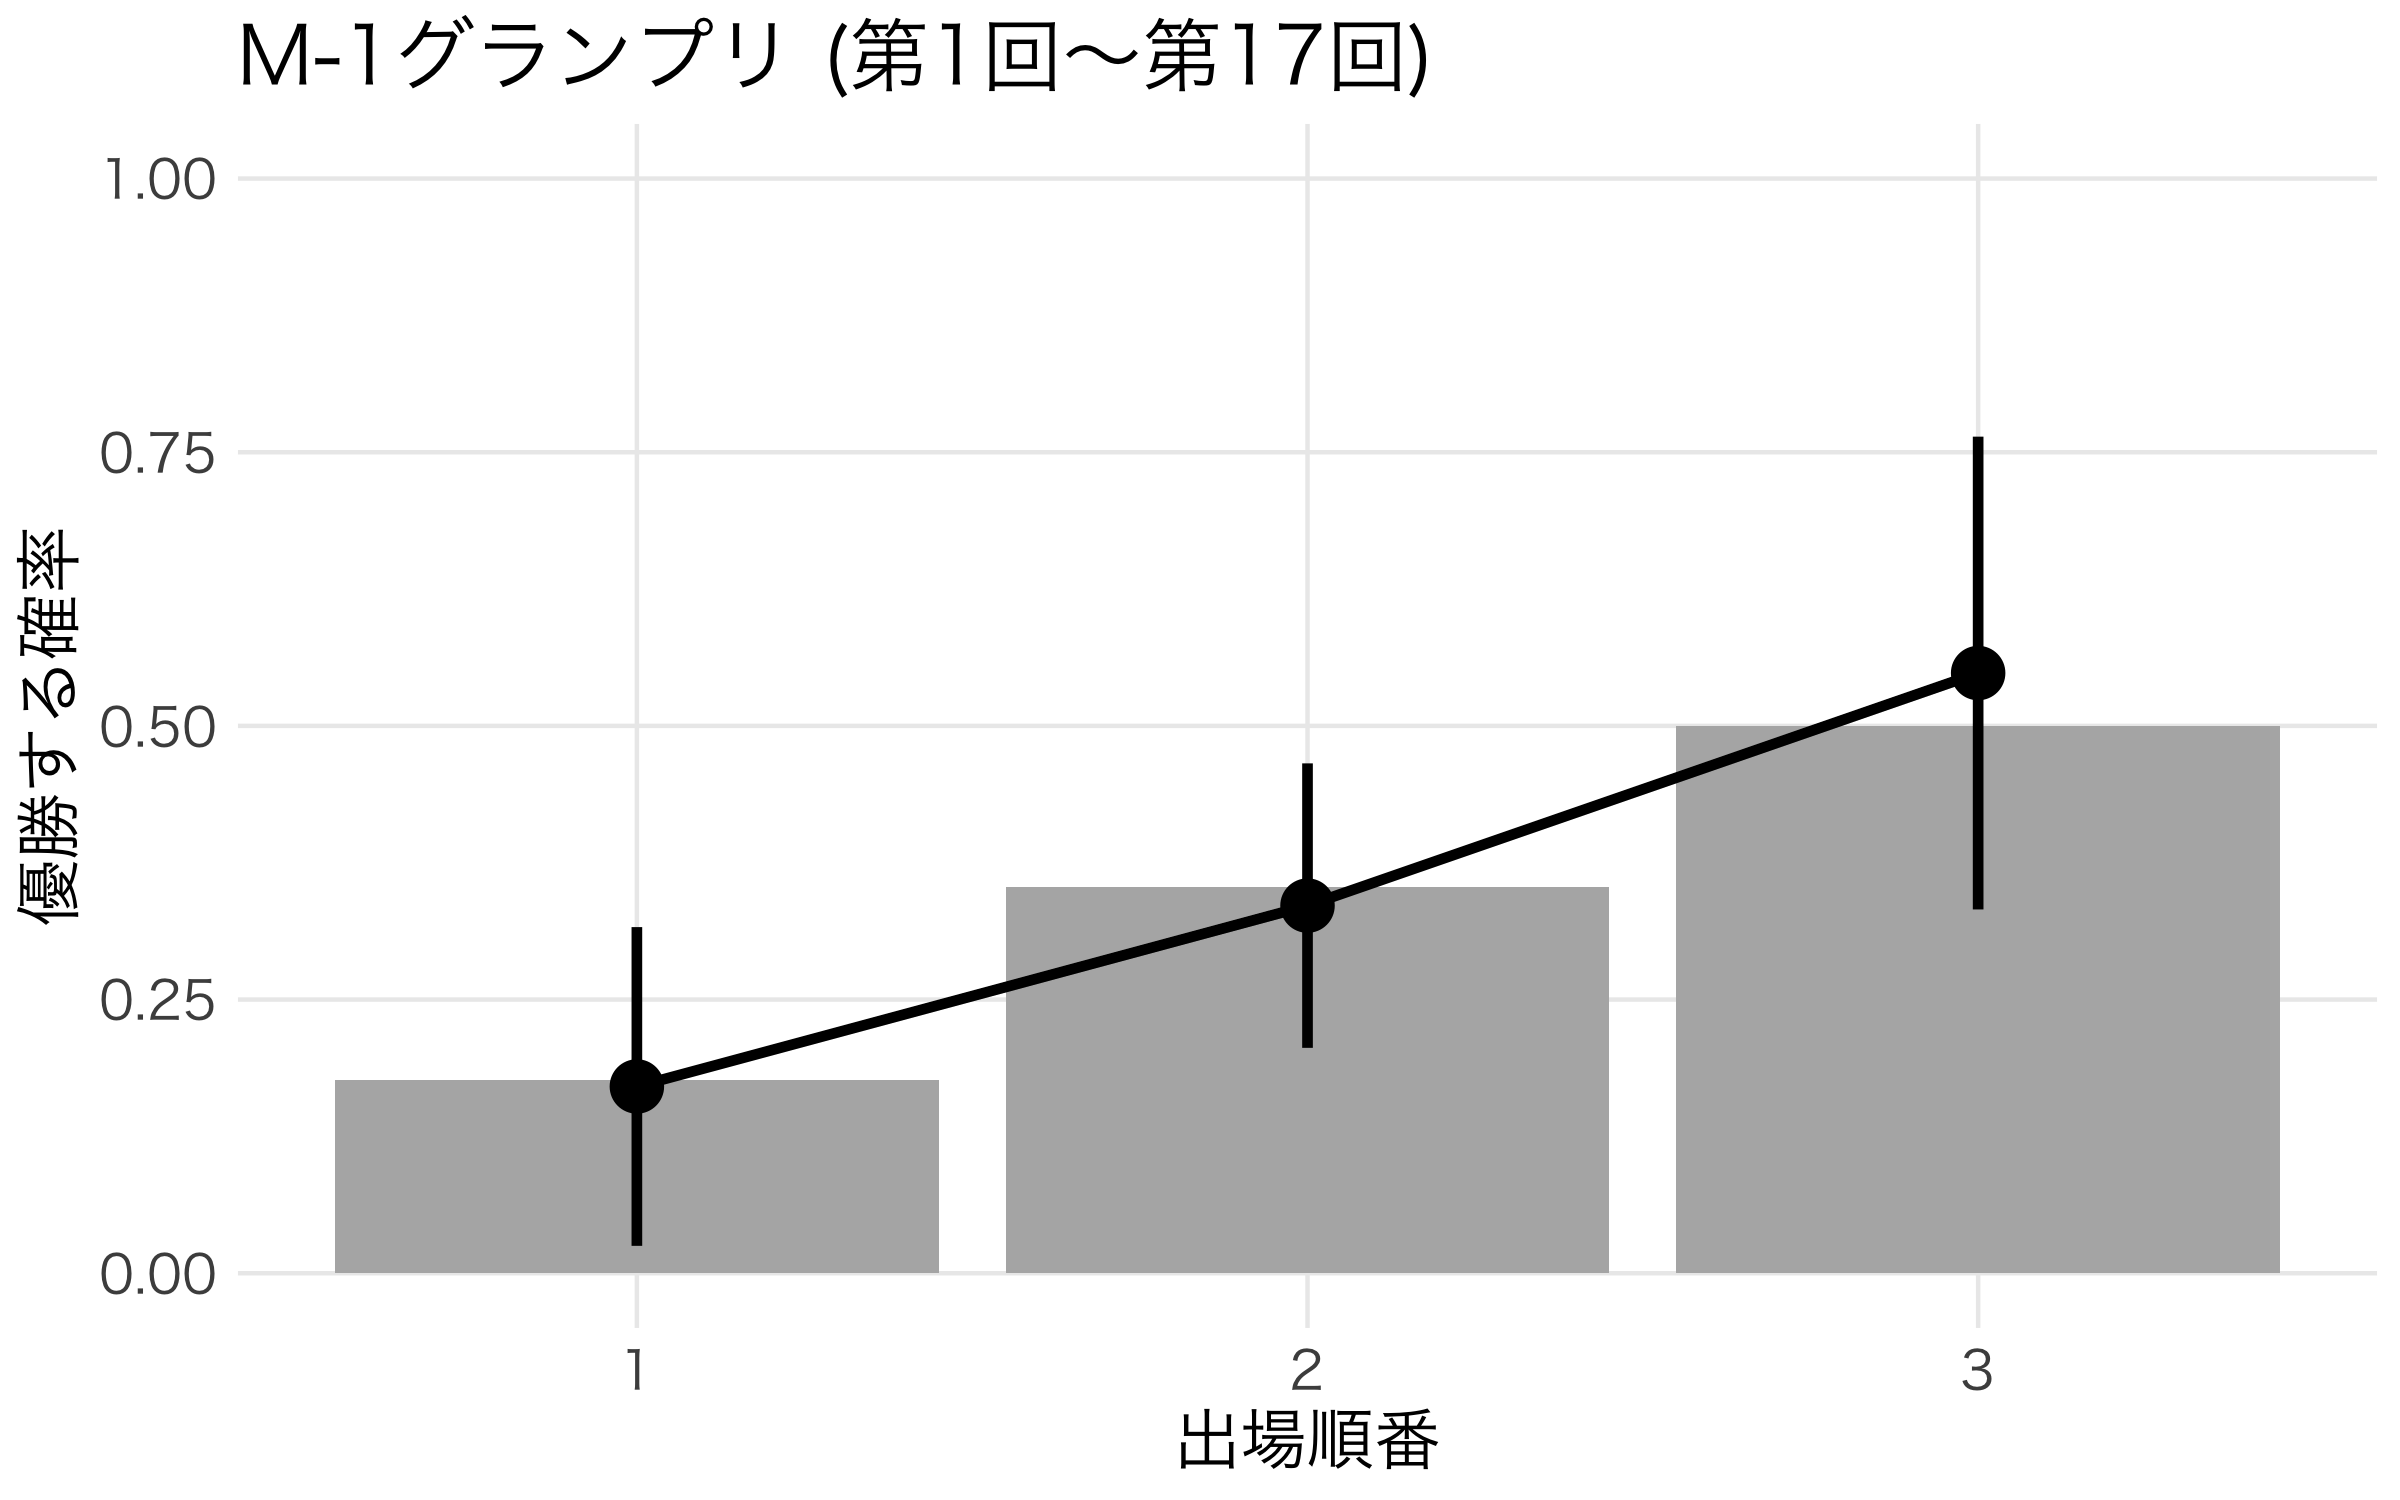
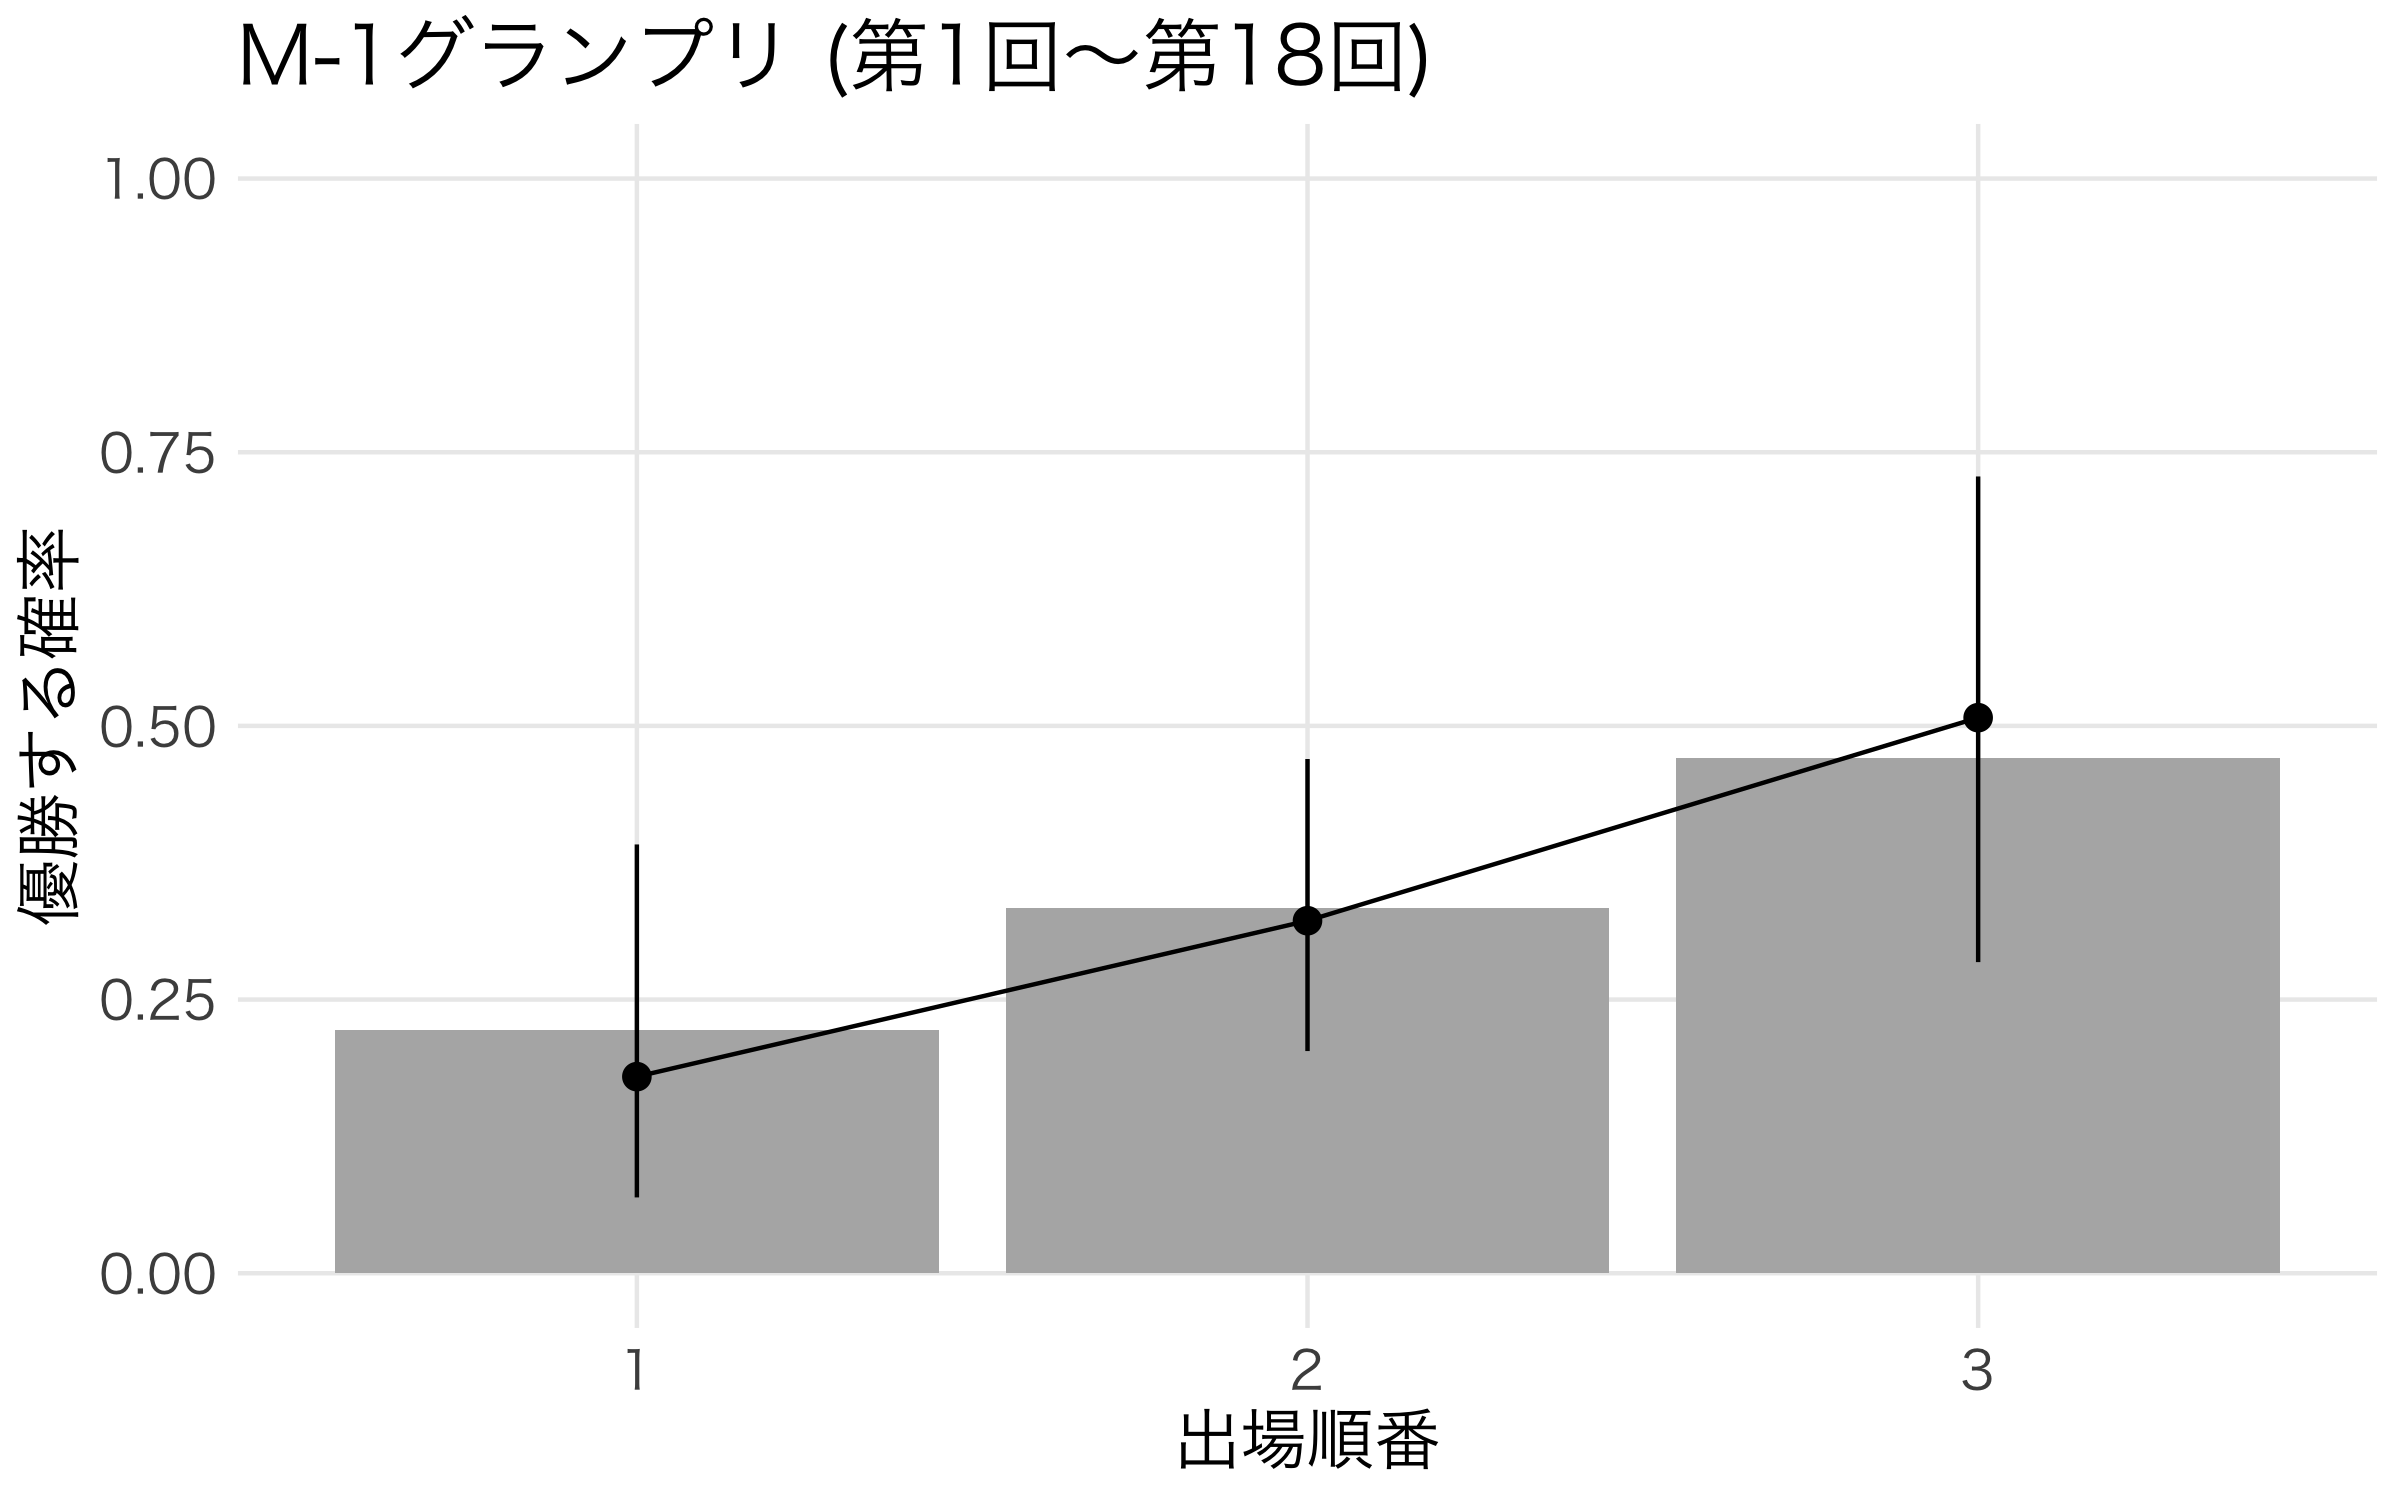
no message

Changed region(s): [[0.125, 0.3067, 0.9688, 0.828], [0.5312, 0.0, 0.5625, 0.0613]]

diff --git a/README.md b/README.md
@@ -9,6 +9,7 @@
 |Year|開催年||
 |Rank|最終順位||
 |Name|コンビ名||
+|Company|所属事務所名||
 |Entry_No|エントリー番号||
 |Since|コンビ結成年||
 |No_Finals|これまでの決勝進出回数|当該年を除く|
@@ -52,23 +53,23 @@ glm(formula = Final ~ Order10 + Since + No_Finals + Zombie, family = binomial("l
 
 Deviance Residuals: 
     Min       1Q   Median       3Q      Max  
--1.5656  -0.8580  -0.5963   1.0818   2.0285  
+-1.5994  -0.8690  -0.6032   1.1086   2.0139  
 
 Coefficients:
-            Estimate Std. Error z value Pr(>|z|)   
-(Intercept) 50.00850   62.98874   0.794  0.42724   
-Order10      0.23348    0.07487   3.118  0.00182 **
-Since       -0.02619    0.03146  -0.832  0.40525   
-No_Finals    0.33450    0.13499   2.478  0.01321 * 
-Zombie       0.41894    0.59718   0.702  0.48297   
+            Estimate Std. Error z value Pr(>|z|)    
+(Intercept) 58.15103   57.45438   1.012 0.311478    
+Order10      0.24337    0.07199   3.380 0.000724 ***
+Since       -0.03026    0.02869  -1.055 0.291550    
+No_Finals    0.34455    0.13553   2.542 0.011016 *  
+Zombie       0.12551    0.55866   0.225 0.822239    
 ---
 Signif. codes:  0 ‘***’ 0.001 ‘**’ 0.01 ‘*’ 0.05 ‘.’ 0.1 ‘ ’ 1
 
 (Dispersion parameter for binomial family taken to be 1)
 
-    Null deviance: 198.00  on 158  degrees of freedom
-Residual deviance: 178.14  on 154  degrees of freedom
-AIC: 188.14
+    Null deviance: 210.22  on 168  degrees of freedom
+Residual deviance: 189.49  on 164  degrees of freedom
+AIC: 199.49
 
 Number of Fisher Scoring iterations: 4
 ```
@@ -113,24 +114,24 @@ glm(formula = Winner ~ Order3 + Since + No_Finals + Zombie, family = binomial("l
 
 Deviance Residuals: 
     Min       1Q   Median       3Q      Max  
--1.5070  -0.8267  -0.5773   1.0000   2.1761  
+-1.4283  -0.8374  -0.6557   1.0890   2.1613  
 
 Coefficients:
-            Estimate Std. Error z value Pr(>|z|)  
-(Intercept) 190.8690   123.1133   1.550   0.1211  
-Order3        0.9866     0.4408   2.238   0.0252 *
-Since        -0.0964     0.0616  -1.565   0.1176  
-No_Finals    -0.2900     0.2218  -1.307   0.1911  
-Zombie       -1.3780     1.0050  -1.371   0.1703  
+             Estimate Std. Error z value Pr(>|z|)  
+(Intercept) 179.13728  113.77383   1.575   0.1154  
+Order3        0.77460    0.41079   1.886   0.0593 .
+Since        -0.09031    0.05691  -1.587   0.1125  
+No_Finals    -0.28788    0.22062  -1.305   0.1919  
+Zombie       -1.29609    0.98143  -1.321   0.1866  
 ---
 Signif. codes:  0 ‘***’ 0.001 ‘**’ 0.01 ‘*’ 0.05 ‘.’ 0.1 ‘ ’ 1
 
 (Dispersion parameter for binomial family taken to be 1)
 
-    Null deviance: 64.104  on 49  degrees of freedom
-Residual deviance: 55.176  on 45  degrees of freedom
-  (109 observations deleted due to missingness)
-AIC: 65.176
+    Null deviance: 67.923  on 52  degrees of freedom
+Residual deviance: 60.598  on 48  degrees of freedom
+  (116 observations deleted due to missingness)
+AIC: 70.598
 
 Number of Fisher Scoring iterations: 4
 ```
@@ -166,5 +167,6 @@ fit2 %>%
 
 ## 更新履歴
 
+* 2022年12月19日: 第18回 (2022年)のデータを追加、所属事務所名を追加
 * 2021年12月20日: 第17回 (2021年)のデータを追加
 * 2020年12月21年: 公開
